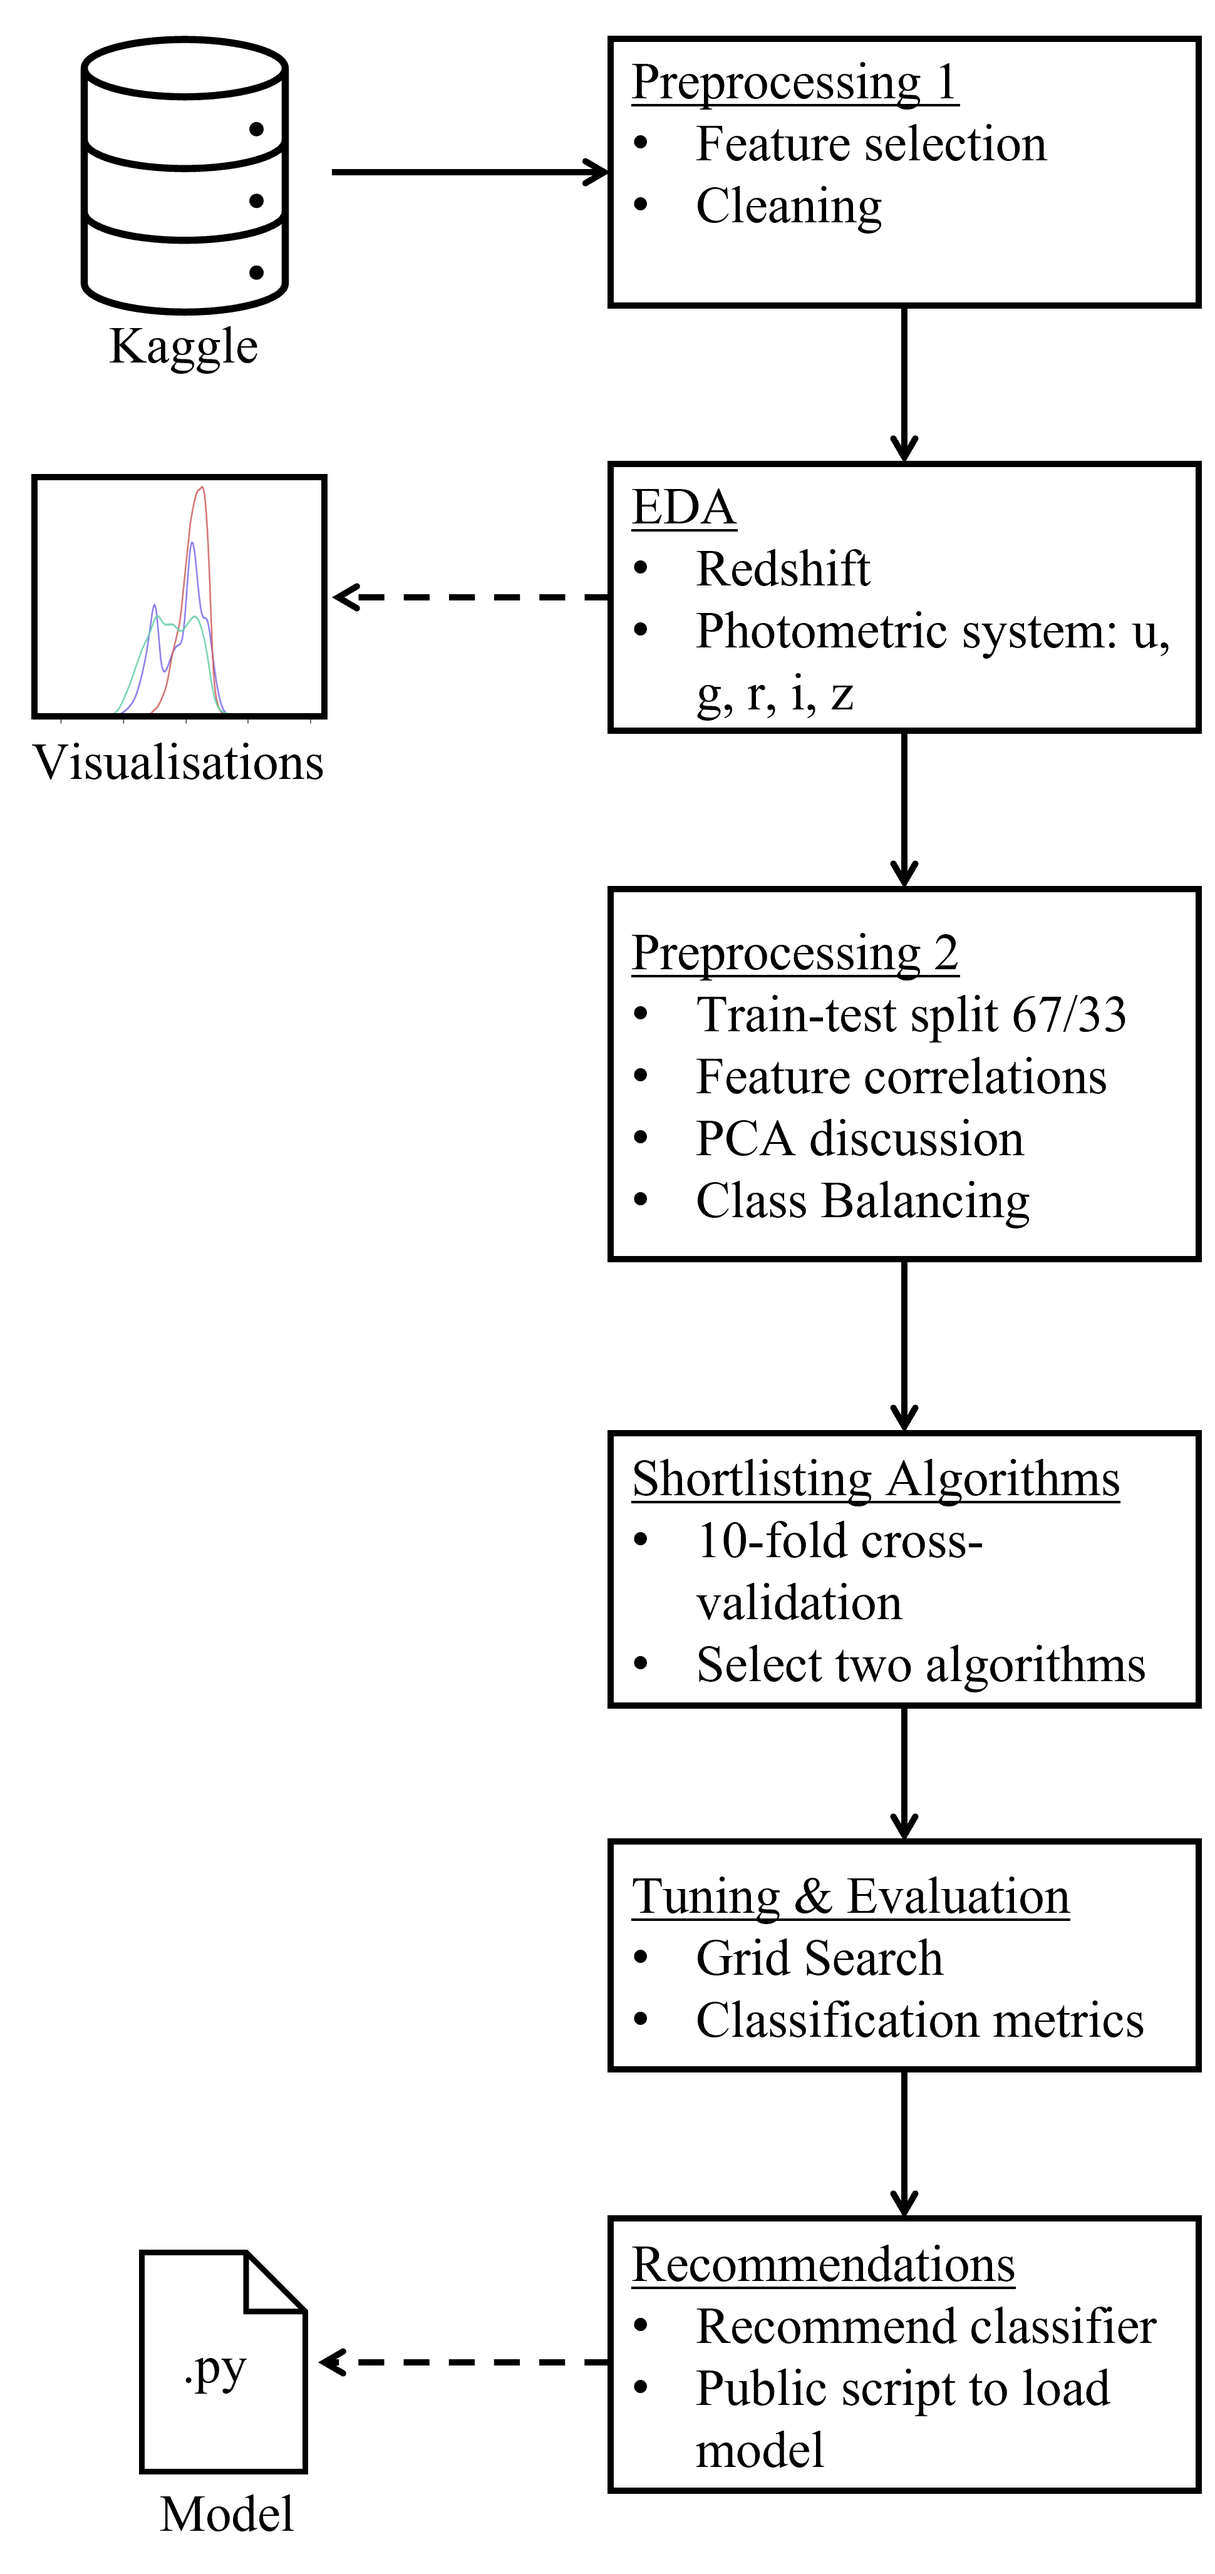
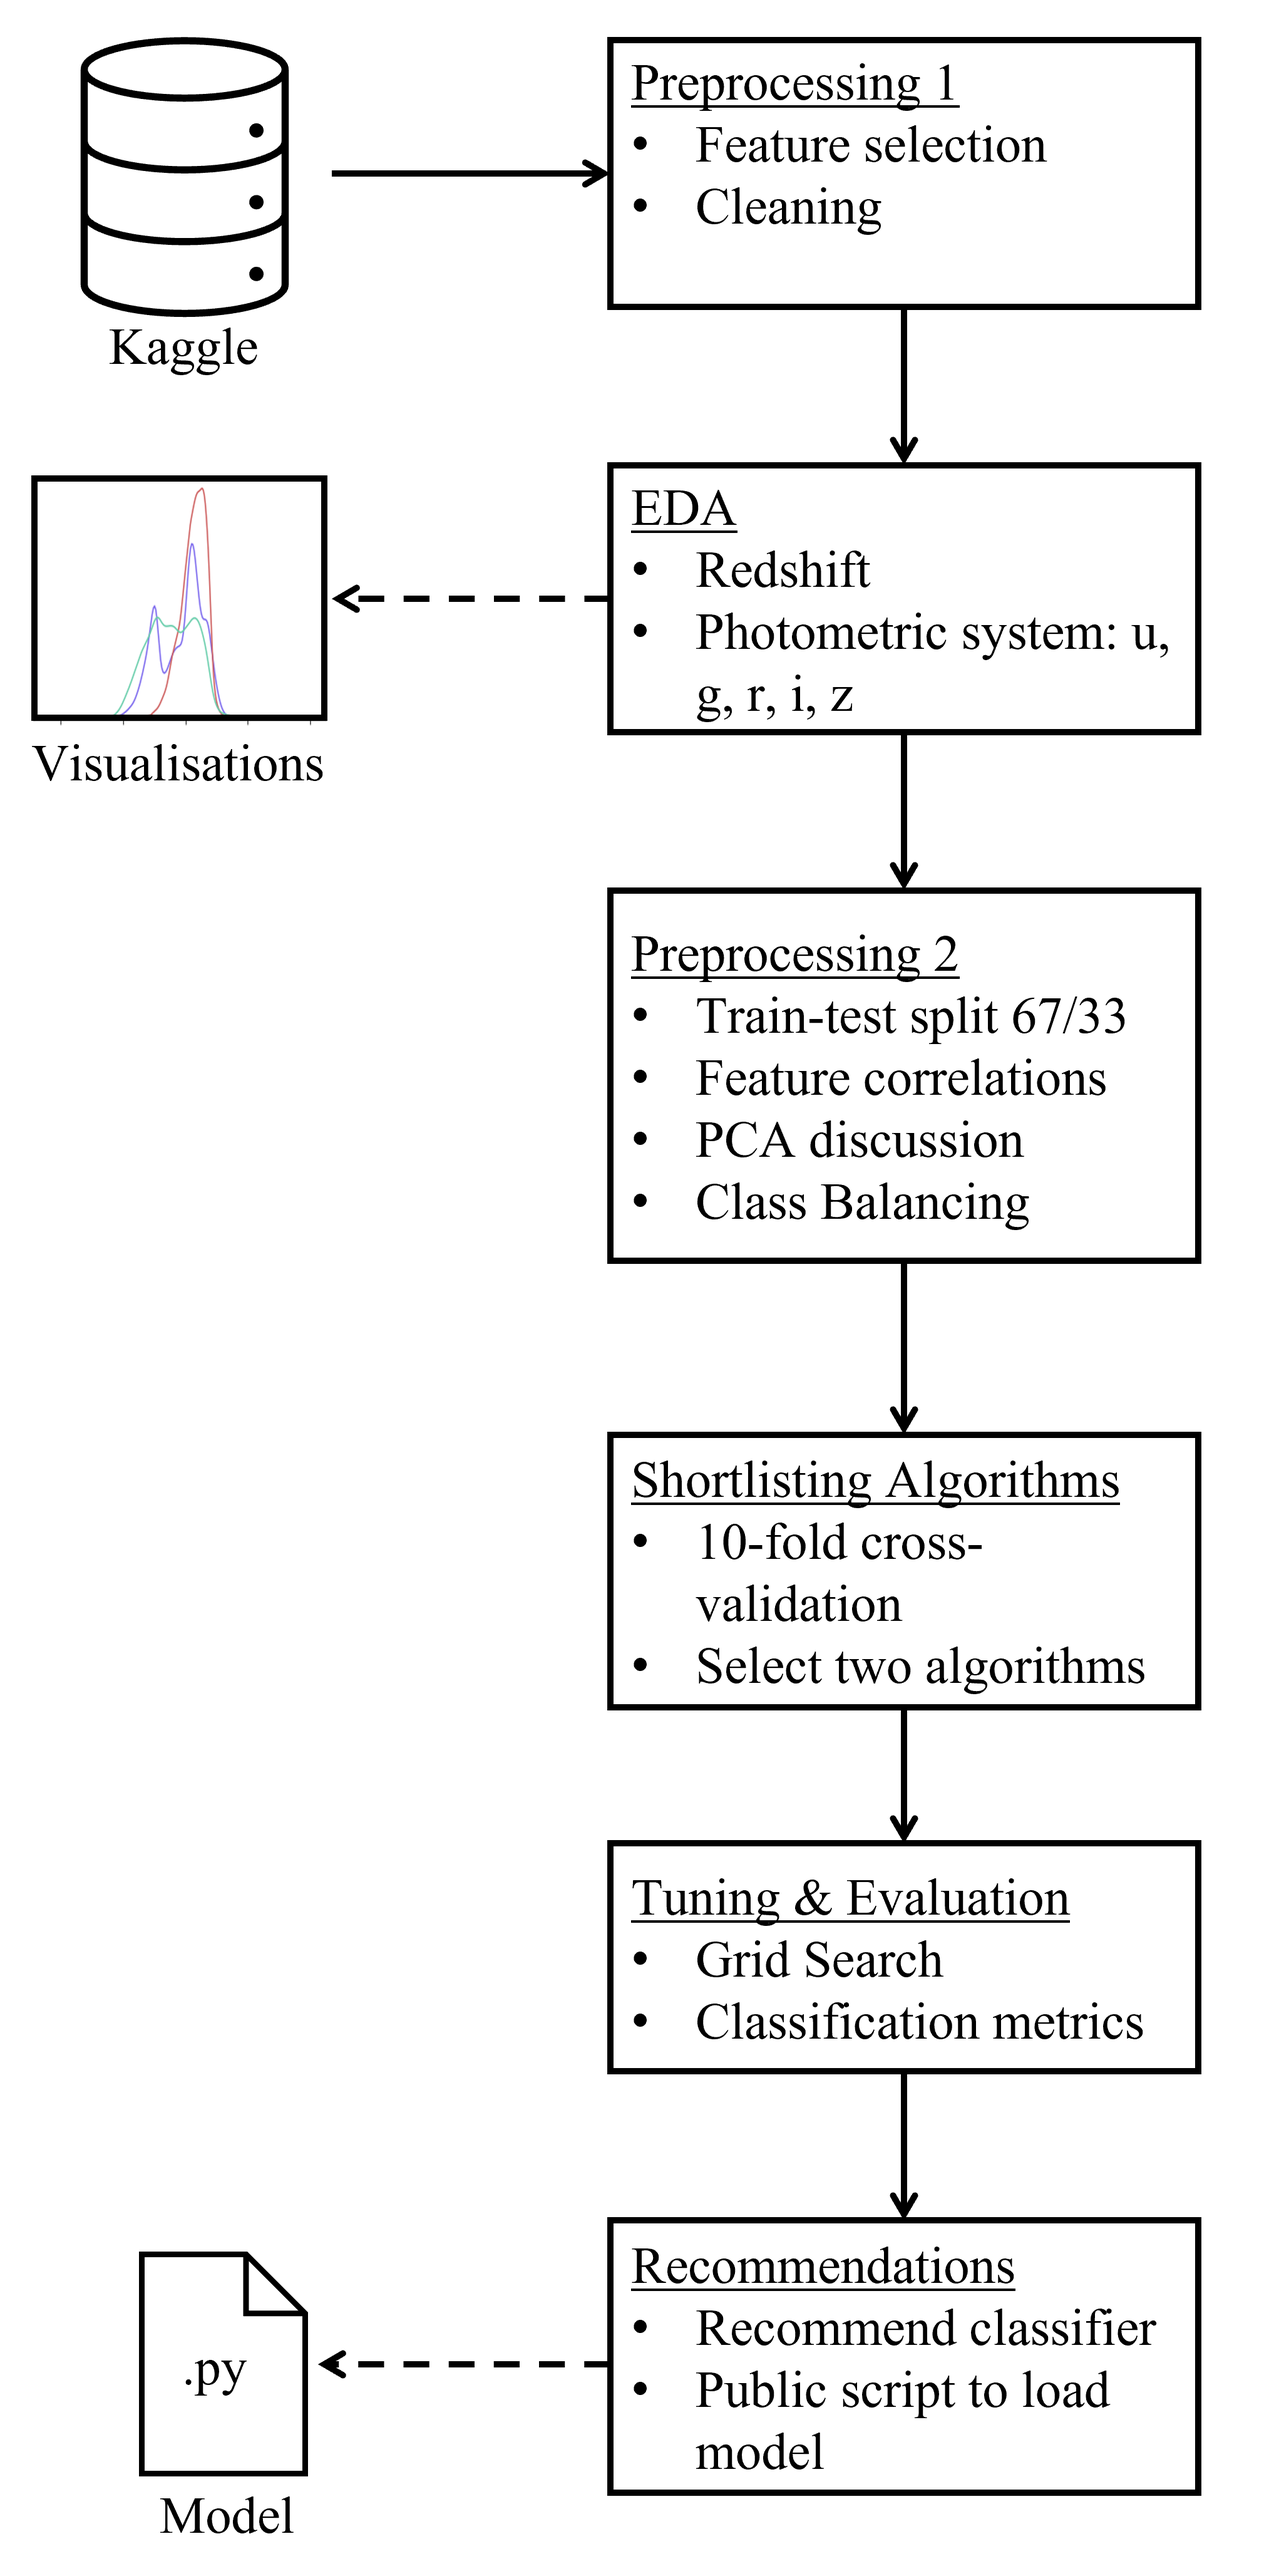
read me improvements

diff --git a/README.md b/README.md
@@ -22,7 +22,7 @@ a classifier.
 * model/ contains script to load my recommended model
 
 ## Project Workflow and Dissertation Overview:
-![Project Workflow](img/pipeline.png)
+![Project Workflow](img/pipeline.png){width=50%}
 
 Model too large to push to GitHub so can dowload here:
 https://drive.google.com/drive/folders/1a0T1jDLMTgfBx1qavTaVnuLmL8G4ydKr?usp=sharing
